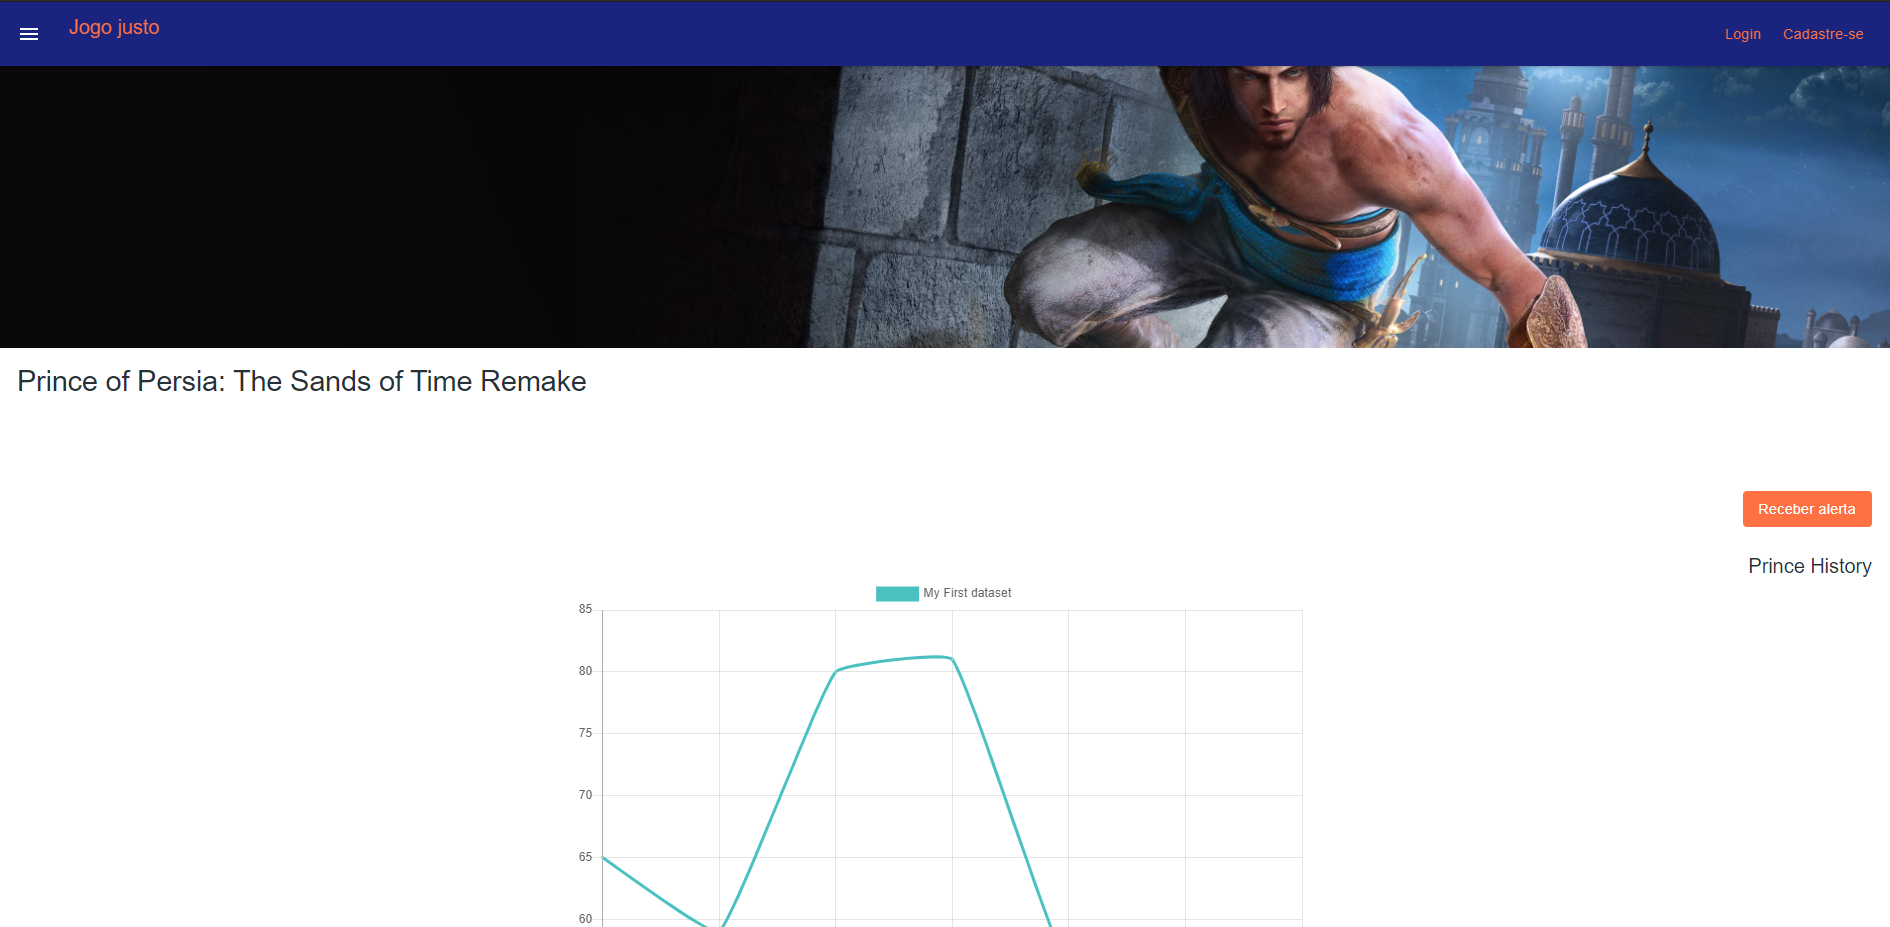
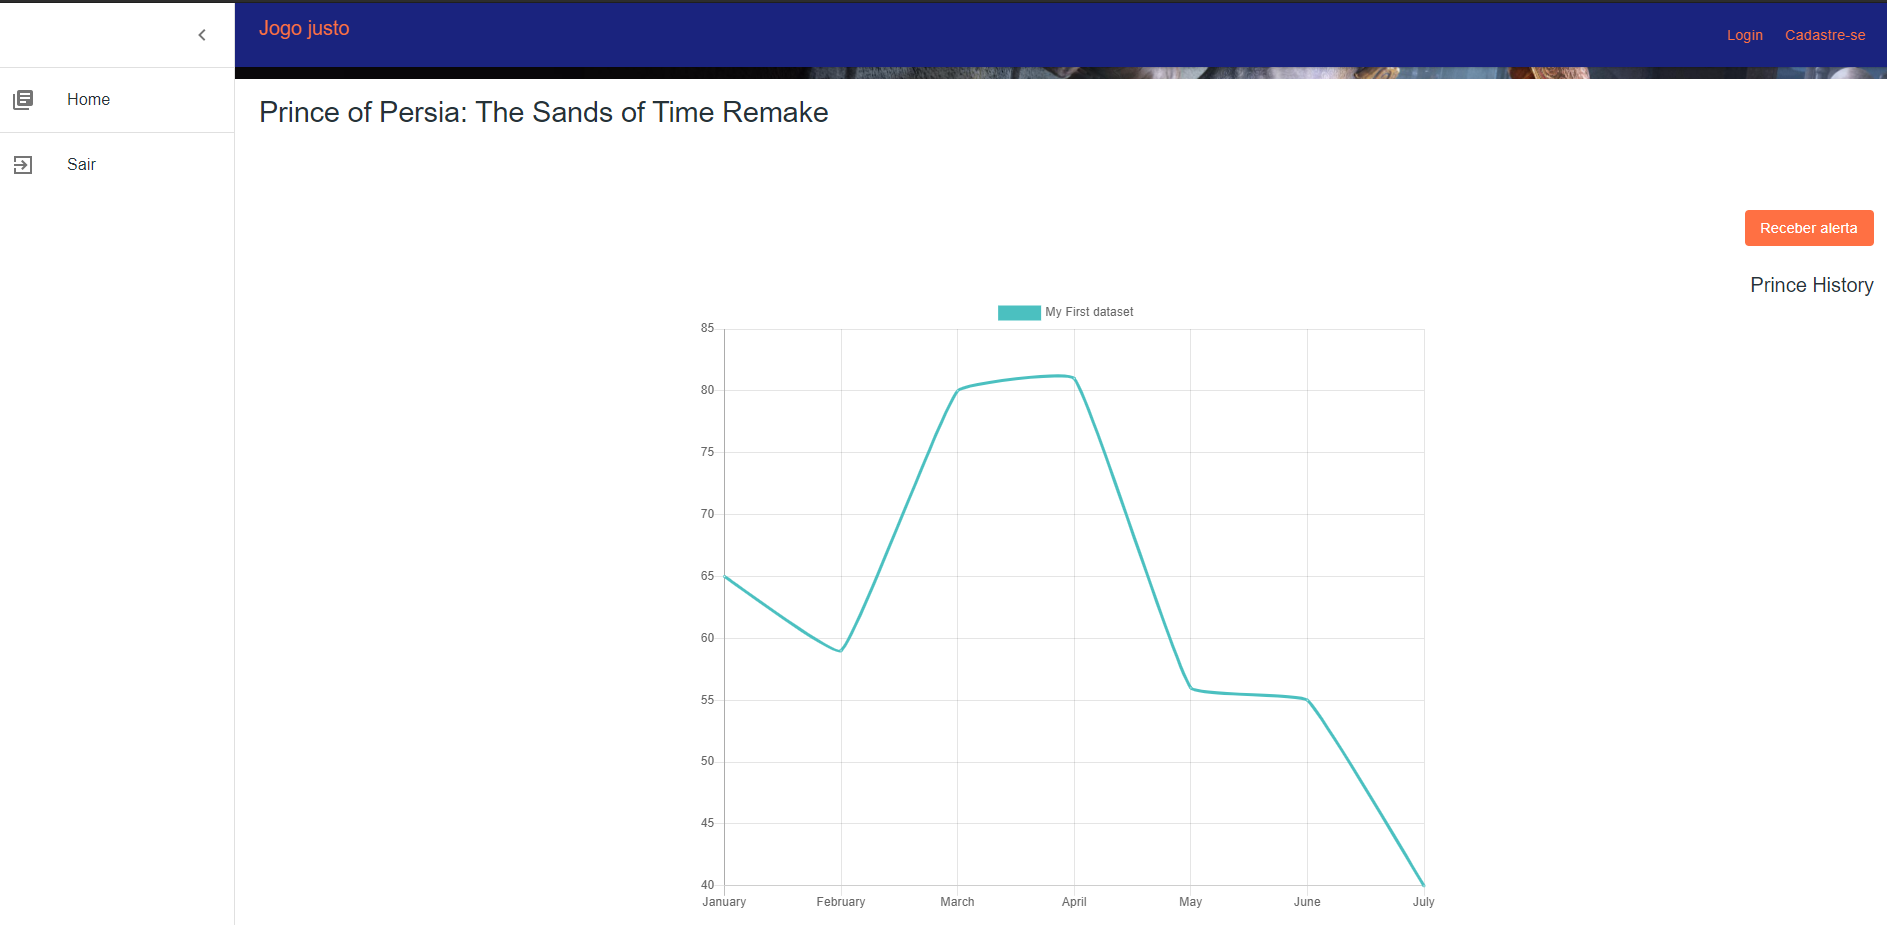
Documentation

diff --git a/README.md b/README.md
@@ -2,7 +2,7 @@
 
 Monitorar o preço de games na playstation store por meio de scrab.
 
-
+![](./jogo%20justo2.PNG)
 ![](./jogo%20justo.PNG)
 
 
@@ -182,12 +182,19 @@ Para executar a bateria de testes execute o seguinte comando dentro da raiz do p
   Cria estrutura base de página dentro do diretório pages.
 
 
+# Melhorias futuras 
+* Layout da aplicação!  
+* Adicionar mais lojas para serem monitoradas 
+* Envio de e-mail por alerta 
 
 
-## Tecnologias utilizadas
-
+# Tecnologias utilizadas
+- Framework Backend: Spring boot
+- Framework Frontend: ReactJs
 - Banco de dados: H2  (https://www.h2database.com/html/main.html)
-- IDE:  Intellij IDEA (https://www.jetbrains.com/idea/promo/ultimate/?gclid=CjwKCAjwwab7BRBAEiwAapqpTDTCRbK2d8oCcHZuscQZAW9EayYBAXtT9n58ayiWwafcDp-9OvdxwhoCeD8QAvD_BwE)
+- Continuous Integrations: Docker - Github actions - Junit
+- IDE:  Intellij IDEA 
 - Teste da API rest: Postman  (https://www.postman.com/)
+- Teste de unidade: Junit  
 - Gerenciador de dependência: Maven 3.6  (https://maven.apache.org/)
-- Lombok 
+
